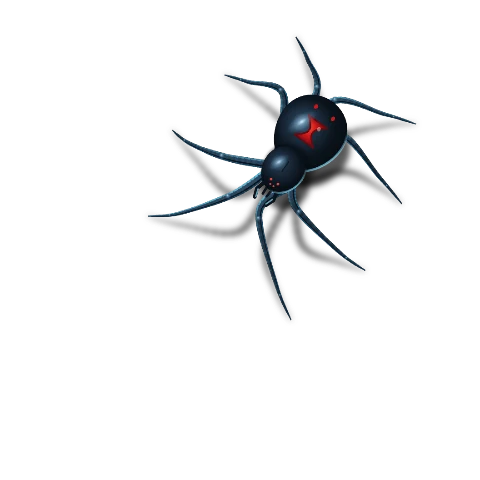
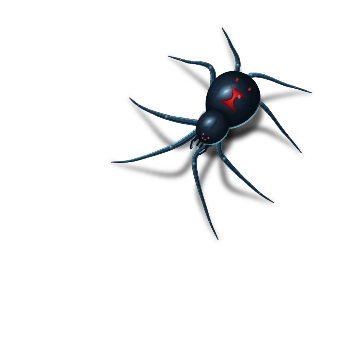
Tip page speed: smaller Black Widow and fkimgworkkk animations

diff --git a/PROGRESS.md b/PROGRESS.md
@@ -1581,3 +1581,32 @@ Every change runs `npm run lint`, `npx tsc --noEmit`, `npm run build` and `git d
 - New `src/lib/fit-picture.ts` (`checkOrFitPicture`, browser only): if a picture fails only on shape (too tall/wide) or size (too many pixels or MB), it is trimmed from the middle and shrunk (JPG stays JPG, everything else becomes WebP; quality steps down to fit the byte limit), then checked again. Never enlarges, so a picture below the minimum (e.g. 485 x 619 for a banner) is still refused with the old message. Animated GIF/WebP and decoration frames are never re-drawn.
 - Wired into `BannerManager.tsx` (banner) and `EffectsManager.tsx` (profile picture); the success message says it was trimmed. The server checks are unchanged.
 - tsc and eslint clean. NOT tested in a browser or with a real upload; no spec added. Crop is always the centre (no choosing the part).
+
+## 2026-11-07, tip page speed from the PageSpeed report for /acepressure (Sonnet, medium; uncommitted)
+- Report: mobile LCP 17 s, desktop 2.9 s; the cause is two decoration animations (2.5 MB of a 3.3 MB page): `black-widow.webp` 2.08 MB (480 px, shown at ~202 px) and `fkimgworkkk.webp` 445 KB. The banner picture already has `priority`; not the problem.
+- Done: `public/decorations/fkimgworkkk.webp` re-encoded 445 KB -> 163 KB (same frames and size, quality 50, Pillow in a /tmp venv). Original is in git history.
+- NOT done, on purpose: `black-widow.webp`. Owner wants no visible change. Re-encoding every frame came out bigger (2.66 MB) than the original; the 1.2 MB versions drop every second frame (half frame rate) or lower the size/quality visibly. Options if wanted later: accept half frame rate, or replace the animation with a lighter one (e.g. a shorter loop or fewer pixels), or serve a smaller file to phones.
+- Other big decorations (sakura 1.8 MB, killua 1.2 MB, nanami 0.96 MB, peaky-blinders 0.95 MB, naoya 0.73 MB): not touched.
+- Not done: `sig-sheen`/`creepy-blink` non-composited animations, legacy JS (14 KiB), SVG without alt text under Agentic Browsing. Re-run PageSpeed after deploying.
+
+## 2026-11-07 (second PageSpeed pass, legacy JS)
+- Removed Next's built-in polyfill chunk (~14 KiB "Legacy JavaScript"): `turbopack.resolveAlias` in `next.config.ts` points `../build/polyfills/polyfill-module` at the empty `src/lib/empty-polyfill.js`. A `browserslist` entry did NOT remove it (Turbopack ships it to everyone). Build and `/` return 200; not yet re-measured on PageSpeed.
+- Mistake and fix: I ran `git checkout` on `public/decorations/fkimgworkkk.webp`, which discarded the earlier uncommitted re-encode. Regenerated it the same way (Pillow, q50, 52 frames, 426x238): 455,712 -> 168,956 bytes (was 163 KB). Commit it.
+- Not done: LCP is the analytics consent banner, which only renders after hydration (useSyncExternalStore starts "pending"), so its paint waits for JS. Fixing means rendering it in the server HTML and hiding it for returning visitors before paint. Forced reflows (~290 ms) and 4 long tasks come from the JS at startup; not investigated.
+
+## 2026-11-07, black widow re-rendered from its code (Sonnet, medium; uncommitted)
+- The widow is drawn by `tools/decor-render` (not an artwork file), so it was re-rendered instead of re-encoded: `node tools/decor-render/render.mjs webp --out 360 --q 62 --aq 28`. Same timeline and frame rates (278 frames, ~14 s, same motion); only the picture size (480 -> 360 px, shown at ~202 px) and the compression changed. `black-widow.webp` 2.08 MB -> 1.29 MB; poster re-made at 360 px. Compared frames 20, 100, 200 old vs new at display size: no visible difference. Loop gap mean 0.001.
+- `FILE_FRAMES` scale (220) is unchanged: it depends on the art's proportions, not its pixel size. The size budget in `test/page-decor.spec.ts` is still 2.6 MB (could be tightened to ~1.5 MB).
+- Not run: the page-decor spec after the swap; PageSpeed after deploy.
+- Other files showing as modified (`next.config.ts`, `src/app/globals.css`, `src/app/layout.tsx`, `src/components/Analytics.tsx`, `src/lib/empty-polyfill.js`) were not made by this work; left out of the commit.
+
+## 2026-11-07 (consent banner in server HTML)
+- LCP fix: the analytics banner is now in the server HTML (`Analytics.tsx` server snapshot is `null`, not "pending"). An inline script in `layout.tsx` sets `html[data-consent]` before paint and `globals.css` hides `[data-consent-banner]` then; `<html>` got `suppressHydrationWarning`. Only active when `NEXT_PUBLIC_GA_ID` is set.
+- Checked in Chrome with a local prod build: new visitor sees the banner, "No thanks" removes it, a returning visitor never gets it. The console errors seen locally are Auth.js (no AUTH_SECRET), unrelated.
+- Still open: re-run PageSpeed after deploy; forced reflows (~290 ms) and 4 long tasks at startup not investigated; low-contrast headline words flagged under Accessibility not investigated.
+
+## 2026-11-07 (startup JS investigation)
+- Chrome CPU profile (4x throttle, 412 px wide): JS self time is small (~400 ms total, spread thin across React and the bundle); native style/layout/paint ("program", ~860 ms) is the bigger share. No single hot JS function to fix.
+- Done: the sample QR in `Differentiators.tsx` is one `<path>` instead of 162 `<rect>`s (DOM 1,189 -> ~1,027 elements, same look). tsc and eslint clean.
+- Not done, on purpose (visible design change): `GlobalBackground.tsx` keeps redrawing its canvas every frame after the page is blurred to 22% opacity. Pausing or halving the loop once `sunk` would save main-thread time during scroll but freezes/changes the faint orbit. Forced reflows come from `TipCard.tsx` (getBoundingClientRect, line ~261) and the Lenis/GSAP setup; not changed.
+- Still open: re-run PageSpeed after deploy; low-contrast headline words under Accessibility.
